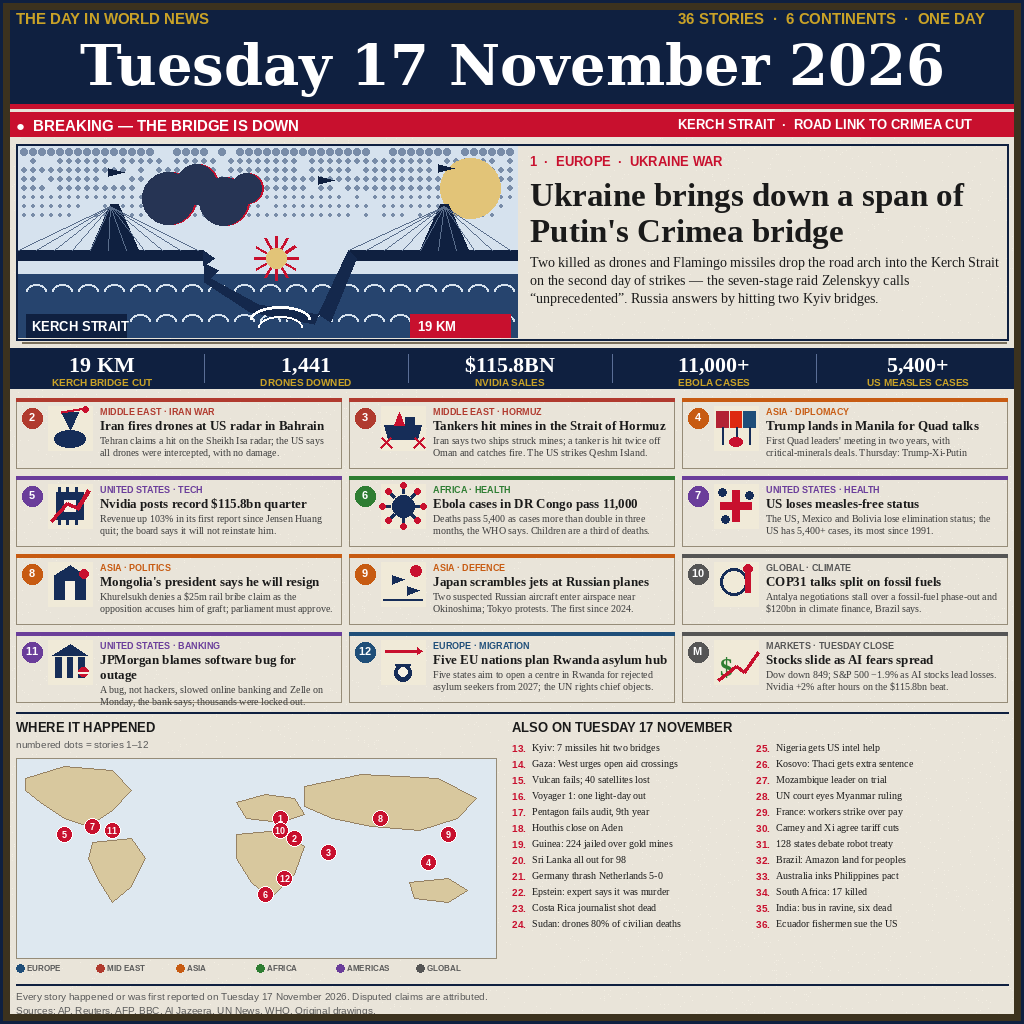
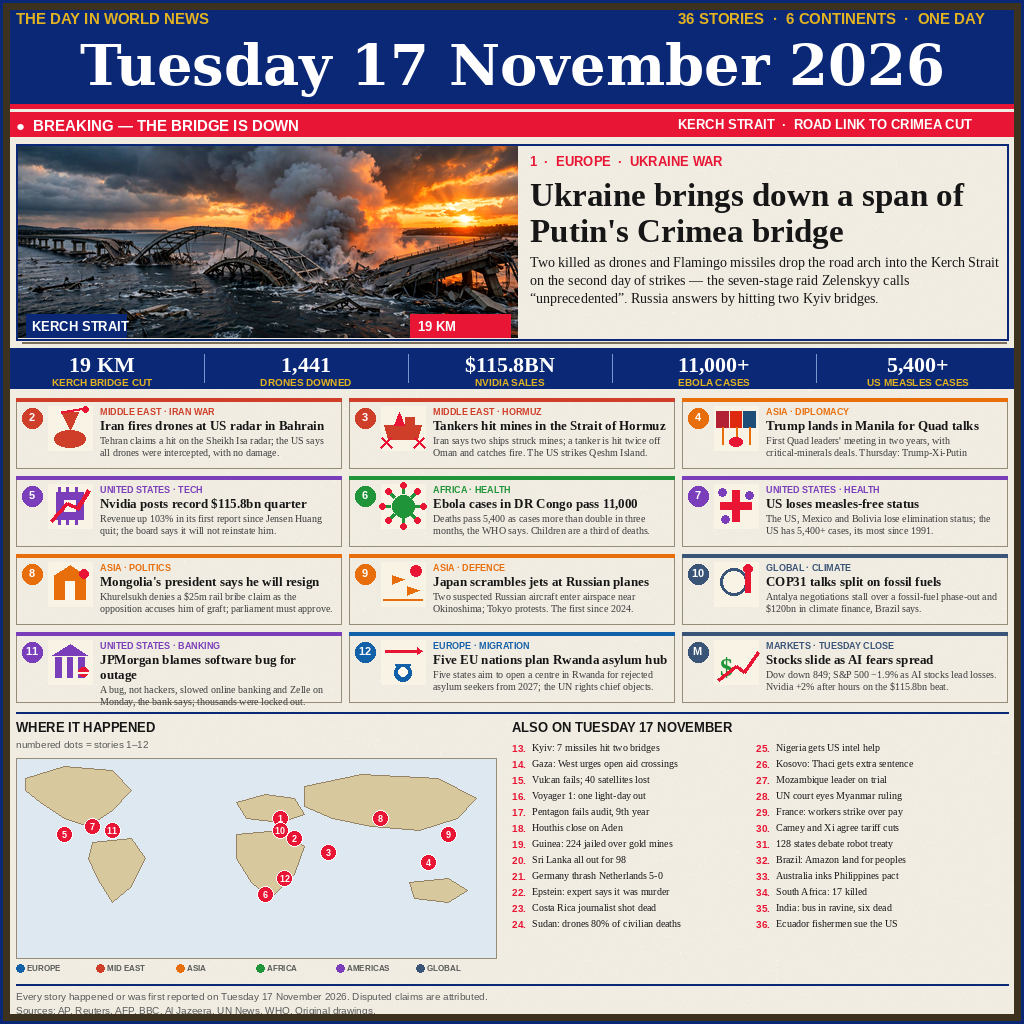
v2: photorealistic hero + vivid palette (user revision)
- Hero Kerch Bridge now a photorealistic photo (assets/hero-kerch.png),
  centre-cropped + colour/contrast boosted deterministically
- Vivid palette: saturated navy/red/gold, one vivid colour per region,
  brighter paper; featured icons inked in their region colour
- README updated; entry.png rebuilt, byte-identical across two runs

diff --git a/build_entry.py b/build_entry.py
@@ -9,18 +9,22 @@ competition kit, and from GitHub research into dramatic print effects):
   legibility and faithful attribution, and the bottom-ranked entries are all
   photorealistic one-scene art with almost no text.
 - Masthead: navy band, giant serif date, "36 STORIES - 6 CONTINENTS - ONE DAY".
-- Hero: the Kerch Bridge story, duotone navy + signal red, with a halftone
-  dot sky, a red BREAKING ribbon and a big-number stat strip.
+- Hero: the Kerch Bridge story as a photorealistic photo (generated image,
+  committed as assets/hero-kerch.png, cropped and colour-boosted
+  deterministically at build time), with a red BREAKING ribbon and a
+  big-number stat strip.
 - 11 more featured stories with a small flat illustration each (a picture
   per story, as the judge's criterion 3 asks), then 24 one-line briefs.
 - Numbered world map ("WHERE IT HAPPENED") whose dots match the story
   numbers, continent colour legend, sources footer, attribution discipline
   ("Iran says / US says", disputed claims attributed).
-- Dramatic print effects, all deterministic (seeded RNG, no network, no
-  clock): paper grain on the paper layer BEFORE any text is drawn (text
-  stays sharp), a light vignette on the outer frame only, 1-2px off-register
-  red shift on the hero art only, thin drop shadow under the hero card.
-  Two runs produce byte-identical output.
+- Vivid palette (v2): saturated navy/red/gold and one vivid colour per
+  region, brighter paper; the photo hero gets a fixed colour/contrast
+  boost. Dramatic print effects, all deterministic (seeded RNG, no
+  network, no clock): paper grain on the paper layer BEFORE any text is
+  drawn (text stays sharp), a light vignette on the outer frame only,
+  thin drop shadow under the hero card. Two runs produce byte-identical
+  output.
 - Facts were verified against live news (AP/Reuters/AFP/BBC/Al Jazeera/UN
   News reporting of 17 Nov 2026); numbers that could not be verified are
   left out or softened, and claims are attributed in the text.
@@ -30,28 +34,35 @@ Output: entry.png next to this file (1024x1024, <= 1 MiB).
 
 import math
 import random
-from PIL import Image, ImageDraw, ImageFont
+from pathlib import Path
+
+from PIL import Image, ImageDraw, ImageEnhance, ImageFont
 
 W, H = 1024, 1024
 SEED = 20261117
 
 # ---------------------------------------------------------------- palette
-NAVY = (15, 32, 64)
-NAVY2 = (22, 45, 88)
-PAPER = (246, 241, 229)
-PAPER2 = (240, 234, 216)
-INK = (26, 26, 26)
+# v2 (user revision 18 Nov 08:32 WIB): vivid — saturated navy/red/gold,
+# one vivid colour per region, brighter paper. The flat v1 palette looked
+# washed-out and unrealistic next to the photo hero.
+NAVY = (10, 40, 118)
+NAVY2 = (16, 66, 168)
+PAPER = (253, 249, 238)
+PAPER2 = (248, 243, 228)
+INK = (22, 22, 22)
 GREY = (90, 90, 90)
-RED = (200, 16, 46)
-GOLD = (201, 162, 39)
-CREAM = (250, 247, 238)
-BLUE = (31, 78, 121)     # Europe
-RUST = (176, 58, 46)     # Middle East
-ORANGE = (199, 91, 18)   # Asia
-GREEN = (46, 125, 50)    # Africa
-PURPLE = (106, 61, 154)  # Americas
-TEAL = (14, 124, 107)    # Oceania
-SLATE = (85, 85, 85)     # Global
+RED = (232, 22, 52)
+GOLD = (226, 178, 32)
+CREAM = (252, 249, 240)
+BLUE = (18, 96, 168)     # Europe
+RUST = (206, 62, 40)     # Middle East
+ORANGE = (232, 110, 12)  # Asia
+GREEN = (32, 148, 56)    # Africa
+PURPLE = (122, 62, 186)  # Americas
+TEAL = (8, 150, 128)     # Oceania
+SLATE = (58, 84, 120)    # Global
+
+HERO_PHOTO = Path(__file__).with_name("assets") / "hero-kerch.png"
 
 FONT_DIR = "/usr/share/fonts/truetype"
 SERIF_B = f"{FONT_DIR}/liberation/LiberationSerif-Bold.ttf"
@@ -311,68 +322,32 @@ ICON_KIND = {2: "radar", 3: "tanker", 4: "flags", 5: "chip", 6: "virus",
 
 
 # ------------------------------------------------------------ hero picture
-def hero_art():
-    """Duotone navy hero: the Kerch Bridge with its road span down.
+def hero_photo():
+    """Photorealistic hero: the Kerch Bridge photo, cropped to the hero box.
 
-    Drawn flat, then a halftone dot field is laid over the sky only, and a
-    2px red off-register copy of the smoke gives the riso-print shift.
+    The source photo is a committed asset (assets/hero-kerch.png); the crop,
+    resize and colour boost below are fixed, so two runs are byte-identical.
+    Two small label chips are drawn over the photo so the place and the
+    bridge length stay legible at a glance.
     Returns an RGB image of the hero box.
     """
     w, h = 500, 192
-    art = Image.new("RGB", (w, h), (214, 226, 238))
+    src = Image.open(HERO_PHOTO).convert("RGB")
+    # centre-crop to the hero aspect (500:192), then resize
+    target = w / h
+    sw, sh = src.size
+    if sw / sh > target:
+        nw = int(sh * target)
+        x0 = (sw - nw) // 2
+        src = src.crop((x0, 0, x0 + nw, sh))
+    else:
+        nh = int(sw / target)
+        y0 = (sh - nh) // 2
+        src = src.crop((0, y0, sw, y0 + nh))
+    art = src.resize((w, h), Image.LANCZOS)
+    art = ImageEnhance.Color(art).enhance(1.25)
+    art = ImageEnhance.Contrast(art).enhance(1.08)
     d = ImageDraw.Draw(art)
-    # sky: pale duotone + halftone dots, denser towards the top
-    rng = random.Random(SEED + 7)
-    for gy in range(6, 78, 9):
-        for gx in range(6, w, 9):
-            r = 1.0 + (78 - gy) / 78 * 2.2
-            if rng.random() < 0.85:
-                d.ellipse([gx - r, gy - r, gx + r, gy + r], fill=(120, 140, 168))
-    # sun, pale
-    d.ellipse([w - 78, 12, w - 18, 72], fill=(226, 196, 120))
-    # smoke: red off-register copy shifted +2px, then navy smoke
-    for ox, col in [(2, (200, 16, 46)), (0, (38, 52, 84))]:
-        for cx, cy, cr in [(150, 52, 26), (178, 38, 20), (205, 55, 24), (228, 42, 15)]:
-            d.ellipse([cx - cr + ox, cy - cr, cx + cr + ox, cy + cr], fill=col)
-    # sea
-    d.rectangle([0, 128, w, h], fill=(38, 68, 110))
-    for wx in range(8, w, 26):
-        d.arc([wx, 138, wx + 20, 152], 180, 360, fill=(214, 226, 238), width=2)
-        d.arc([wx, 168, wx + 20, 182], 180, 360, fill=(214, 226, 238), width=2)
-    # bridge: two A-frame towers, deck left and right standing, middle gone
-    for tx in (70, 400):
-        d.polygon([(tx, 108), (tx + 22, 58), (tx + 30, 58), (tx + 52, 108)],
-                  fill=NAVY)
-        d.line([tx + 26, 58, tx + 6, 108], fill=NAVY, width=2)
-        d.line([tx + 26, 58, tx + 46, 108], fill=NAVY, width=2)
-    d.rectangle([0, 104, 185, 114], fill=NAVY)
-    d.rectangle([330, 104, w, 114], fill=NAVY)
-    # suspension cables from the towers
-    for x0 in range(0, 185, 18):
-        d.line([92, 60, x0, 104], fill=(90, 110, 140), width=1)
-    for x0 in range(330, w, 18):
-        d.line([426, 60, x0, 104], fill=(90, 110, 140), width=1)
-    # fallen span: jagged break, tilted section sinking into the strait
-    d.polygon([(185, 104), (196, 112), (188, 118), (200, 124), (192, 132),
-               (240, 158), (300, 168), (296, 178), (232, 166), (186, 136)],
-              fill=(20, 40, 76))
-    d.polygon([(300, 168), (330, 104), (338, 112), (312, 176)],
-              fill=(20, 40, 76))
-    # burst at the break point + splash
-    for ang in range(0, 360, 30):
-        r = math.radians(ang)
-        x1 = 258 + math.cos(r) * 6
-        y1 = 112 + math.sin(r) * 6
-        x2 = 258 + math.cos(r) * 22
-        y2 = 112 + math.sin(r) * 22
-        d.line([x1, y1, x2, y2], fill=RED, width=3)
-    d.ellipse([248, 102, 268, 122], fill=(226, 196, 120))
-    d.arc([232, 160, 292, 186], 180, 360, fill=(255, 255, 255), width=3)
-    d.arc([240, 170, 284, 192], 180, 360, fill=(255, 255, 255), width=2)
-    # drones
-    for dx, dy in [(90, 22), (300, 30), (420, 18)]:
-        d.polygon([(dx, dy), (dx + 16, dy + 4), (dx, dy + 8)], fill=NAVY)
-    # label chips
     d.rectangle([8, 168, 108, 192], fill=NAVY)
     d.text((14, 173), "KERCH STRAIT", font=font(SANS_B, 13), fill=(255, 255, 255))
     d.rectangle([w - 108, 168, w - 8, 192], fill=RED)
@@ -429,7 +404,7 @@ def build():
     # ---- hero ------------------------------------------------------------
     hy0, hy1 = 144, 340
     d.rectangle([M, hy0, W - M, hy1], outline=NAVY, width=2)
-    img.paste(hero_art(), (M + 2, hy0 + 2))
+    img.paste(hero_photo(), (M + 2, hy0 + 2))
     # thin drop shadow under the hero card
     d.line([M + 6, hy1 + 2, W - M - 2, hy1 + 2], fill=(120, 110, 90), width=2)
     hx = M + 514
@@ -456,7 +431,7 @@ def build():
     for i, (num, lab) in enumerate(stats):
         cx = i * col_w
         if i:
-            d.line([cx, sy0 + 6, cx, sy1 - 6], fill=(90, 110, 150), width=1)
+            d.line([cx, sy0 + 6, cx, sy1 - 6], fill=(120, 150, 205), width=1)
         nf = font(SERIF_B, 22)
         d.text((cx + (col_w - d.textlength(num, font=nf)) / 2, sy0 + 4),
                num, font=nf, fill=(255, 255, 255))
@@ -492,7 +467,9 @@ def build():
         ix, iy, isize = x0 + 32, y0 + 8, 44
         d.rectangle([ix, iy, ix + isize, iy + isize], fill=PAPER2)
         if isinstance(n, int):
-            icon(d, ICON_KIND[n], ix, iy, isize, NAVY2, RED)
+            # v2: each mini illustration is inked in its region colour,
+            # so the grid reads vivid instead of flat navy
+            icon(d, ICON_KIND[n], ix, iy, isize, col, RED)
         else:
             d.text((ix + 6, iy + 12), "$", font=font(SERIF_B, 26), fill=GREEN)
             d.line([ix + 4, iy + 40, ix + 22, iy + 26, ix + 30, iy + 32,

diff --git a/README.md b/README.md
@@ -17,15 +17,16 @@ copies the image deterministically to the output directory.
 ## How the image was made
 
 `build_entry.py` (Python + Pillow, run locally) draws the whole front page
-from a list of verified stories: masthead, red BREAKING ribbon, a duotone
-halftone hero of the Kerch Bridge, 11 more stories each with its own small
-flat illustration, 24 one-line briefs, a numbered world map, and a footer
+from a list of verified stories: masthead, red BREAKING ribbon, a
+photorealistic photo hero of the Kerch Bridge (committed as
+`assets/hero-kerch.png`, cropped and colour-boosted deterministically),
+11 more stories each with its own small flat illustration in its region
+colour, 24 one-line briefs, a numbered world map, and a footer
 naming the sources. Facts were checked against live news reporting of
 17 November 2026 (AP, Reuters, AFP, BBC, Al Jazeera, UN News, WHO);
 disputed claims are attributed in the image itself. Print effects are
-deliberately restrained and deterministic (seeded paper grain, halftone
-dots on the hero sky only, a 2px off-register shift on the hero smoke):
-the text stays sharp and two runs produce byte-identical output.
+deliberately restrained and deterministic (seeded paper grain, vivid
+palette): the text stays sharp and two runs produce byte-identical output.
 
 ## Run it
 
